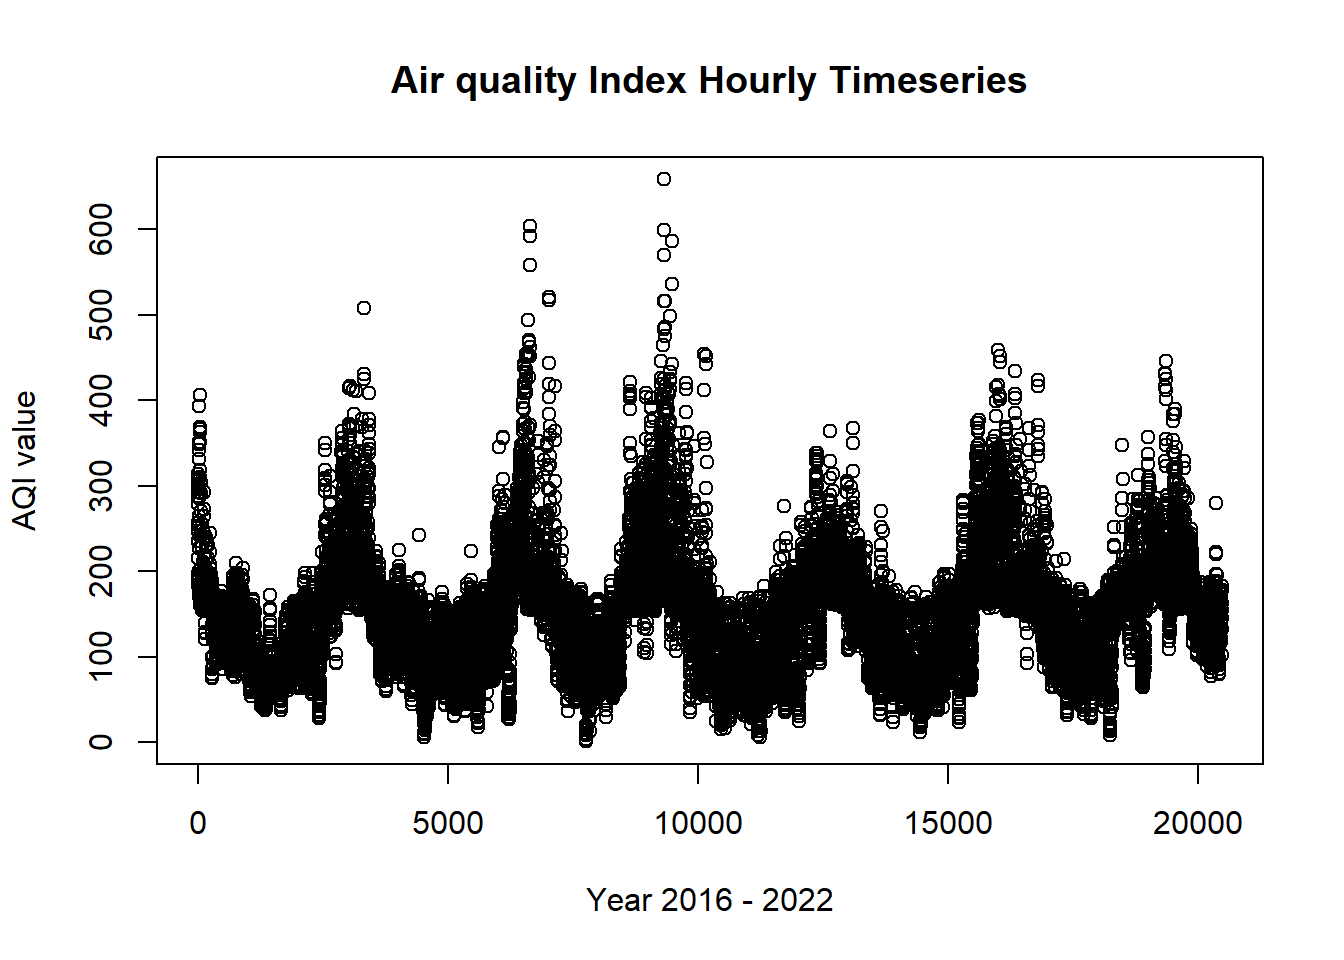
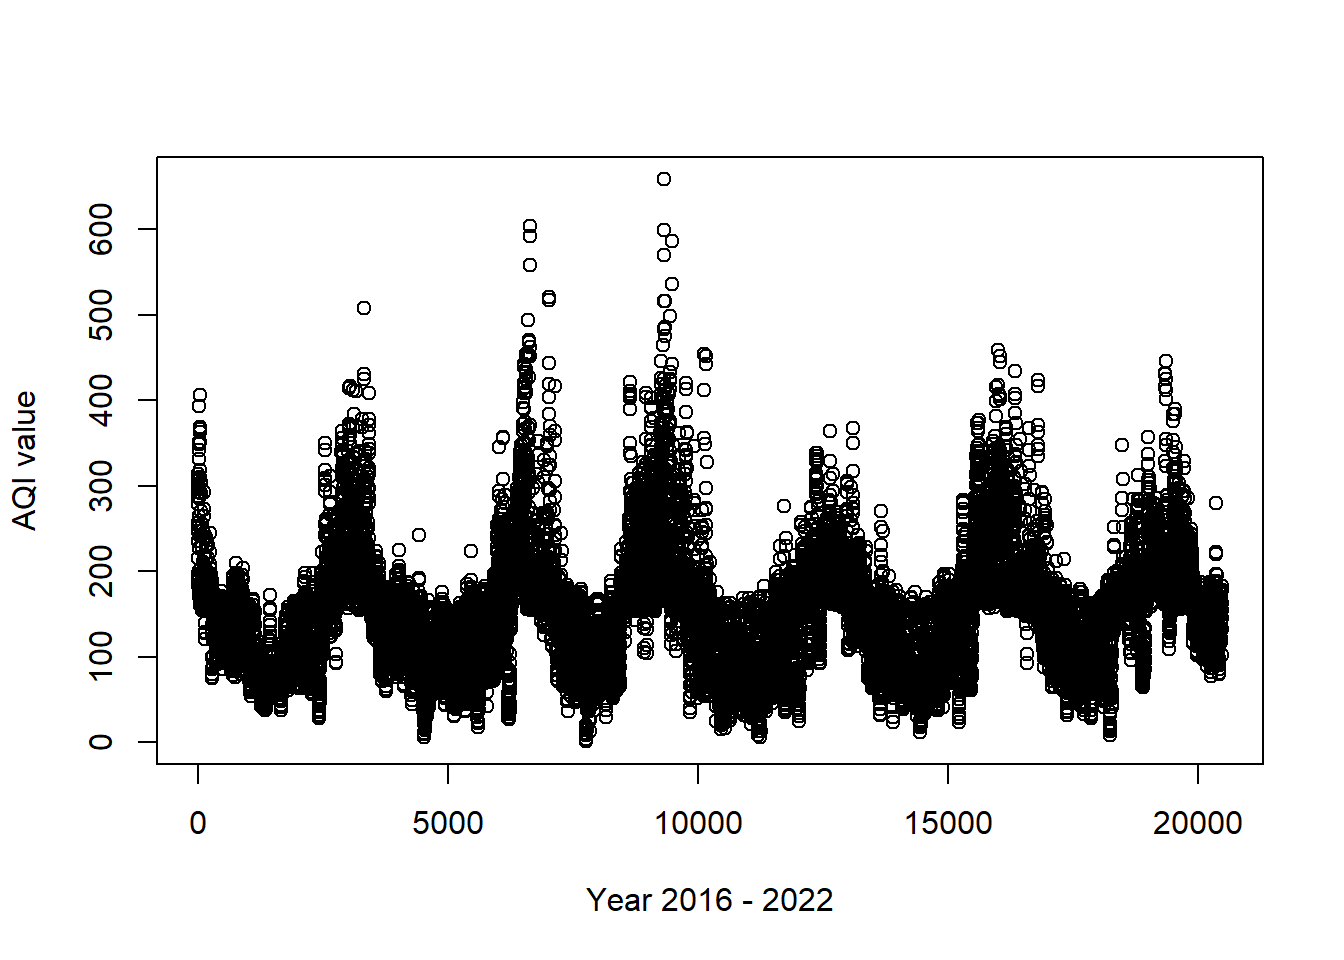
completed

Changed region(s): [[0.2812, 0.0625, 0.7812, 0.125]]

diff --git a/docs/posts/southAsia_crop/index.html b/docs/posts/southAsia_crop/index.html
@@ -185,20 +185,10 @@ pre > code.sourceCode > span > a:first-child::before { text-decoration: underlin
 
 
 <style>
-        img {
-            max-width: 70%;
-            height: auto;
-            display: block;
-            margin-left: auto;
-            margin-right: auto;
-            float: left;
-        }
-        
-        figcaption {
-            margin-top: 10px;
-            text-align: center;
-        }
- </style>
+  figure {
+    text-align: center;
+  }
+</style>
 <section id="background" class="level2">
 <h2 class="anchored" data-anchor-id="background">Background</h2>
 <p>In South Asian cities, extreme air pollution during winter is a recurring issue, attributed significantly to crop burning in agricultural lands. Another contributing factor is the reduced wind circulation caused by fog during the winter season, preventing the dispersion of city dust.As part of this project, the focus will be on assessing the strength of the relationships between crop burning and the air quality index in South Asian nations. The analysis will address three key questions:</p>
@@ -435,7 +425,12 @@ F-statistic: 6.342 on 1 and 24 DF,  p-value: 0.01887</code></pre>
 <span id="cb11-14"><a href="#cb11-14" aria-hidden="true" tabindex="-1"></a>  <span class="fu">scale_x_continuous</span>(<span class="at">breaks =</span> <span class="fu">seq</span>(<span class="fu">min</span>(south_asian_data<span class="sc">$</span>year), <span class="fu">max</span>(south_asian_data<span class="sc">$</span>year), <span class="at">by =</span> <span class="dv">30</span>))  <span class="co"># Adjust the breaks as needed</span></span></code><button title="Copy to Clipboard" class="code-copy-button"><i class="bi"></i></button></pre></div>
 </details>
 <div class="cell-output-display">
-<p><img src="index_files/figure-html/Total crop burning emission in Each south Asian Nations since 1990-1.png" class="img-fluid" width="672"></p>
+<div class="quarto-figure quarto-figure-center">
+<figure class="figure">
+<p><img src="index_files/figure-html/unnamed-chunk-10-1.png" class="img-fluid figure-img" width="672"></p>
+<figcaption class="figure-caption">Total crop burning emission in Each south Asian Nations since 1990</figcaption>
+</figure>
+</div>
 </div>
 <details>
 <summary>Code</summary>
@@ -636,7 +631,7 @@ F-statistic: 47.95 on 1 and 29 DF,  p-value: 1.307e-07</code></pre>
 <div class="cell">
 <details>
 <summary>Code</summary>
-<div class="sourceCode cell-code" id="cb23"><pre class="sourceCode r code-with-copy"><code class="sourceCode r"><span id="cb23-1"><a href="#cb23-1" aria-hidden="true" tabindex="-1"></a><span class="fu">plot</span>(daily_aqi_filtered<span class="sc">$</span>AQI,  <span class="at">xlab =</span> <span class="st">"Year 2016 - 2022"</span>, <span class="at">ylab =</span> <span class="st">"AQI value"</span>, <span class="at">main =</span> <span class="st">"Air quality Index Hourly Timeseries"</span>)</span></code><button title="Copy to Clipboard" class="code-copy-button"><i class="bi"></i></button></pre></div>
+<div class="sourceCode cell-code" id="cb23"><pre class="sourceCode r code-with-copy"><code class="sourceCode r"><span id="cb23-1"><a href="#cb23-1" aria-hidden="true" tabindex="-1"></a><span class="fu">plot</span>(daily_aqi_filtered<span class="sc">$</span>AQI,  <span class="at">xlab =</span> <span class="st">"Year 2016 - 2022"</span>, <span class="at">ylab =</span> <span class="st">"AQI value"</span>, <span class="at">main =</span> <span class="cn">NA</span>)</span></code><button title="Copy to Clipboard" class="code-copy-button"><i class="bi"></i></button></pre></div>
 </details>
 <div class="cell-output-display">
 <div class="quarto-figure quarto-figure-center">

diff --git a/docs/posts.html b/docs/posts.html
@@ -193,7 +193,7 @@ Sujan Bhattarai
 </div>
 </a>
 </div>
-<div class="g-col-1" data-index="1" data-listing-file-modified-sort="1702672665141" data-listing-reading-time-sort="19">
+<div class="g-col-1" data-index="1" data-listing-file-modified-sort="1702673920246" data-listing-reading-time-sort="19">
 <a href="./posts/southAsia_crop/index.html" class="quarto-grid-link">
 <div class="quarto-grid-item card h-100 card-left">
 <p class="card-img-top"><img src="posts\southAsia_crop\index_files\figure-html\unnamed-chunk-5-1.png" style="height: 150px;"  class="thumbnail-image card-img"/></p>

diff --git a/docs/projects.html b/docs/projects.html
@@ -199,7 +199,7 @@ Sujan Bhattarai
 </a>
 </div>
 </div>
-<div class="quarto-post image-right" data-index="1" data-listing-file-modified-sort="1702672665141" data-listing-reading-time-sort="19">
+<div class="quarto-post image-right" data-index="1" data-listing-file-modified-sort="1702673920246" data-listing-reading-time-sort="19">
 <div class="thumbnail">
 <p><a href="./posts/southAsia_crop/index.html"> <p class="card-img-top"><img src="posts\southAsia_crop\index_files\figure-html\unnamed-chunk-5-1.png"  class="thumbnail-image card-img"/></p> </a></p>
 </div>
